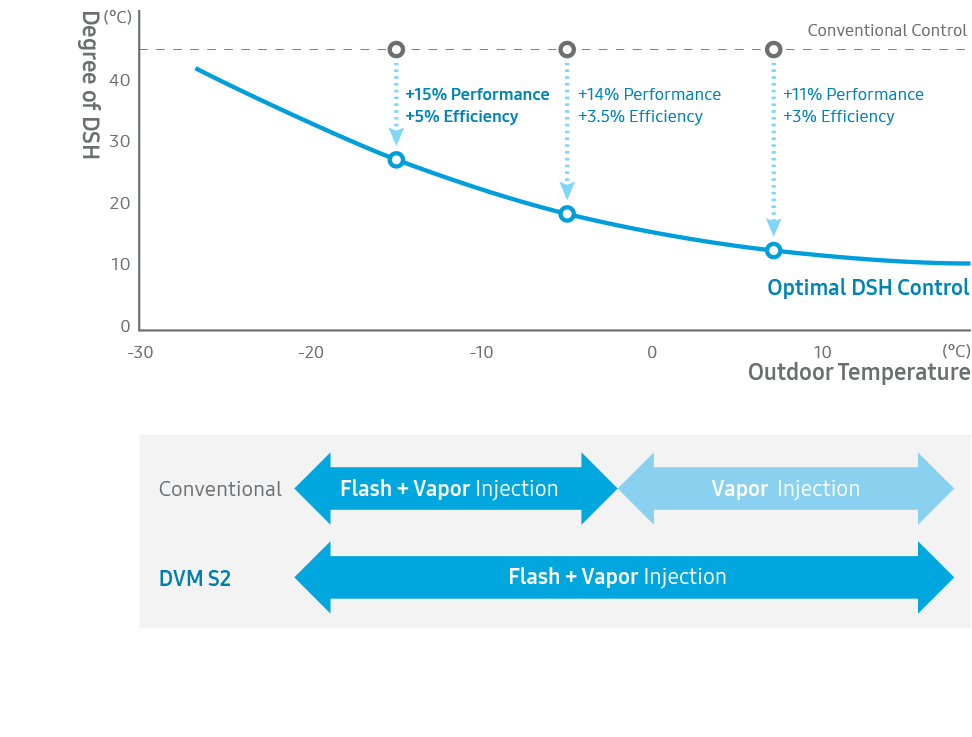
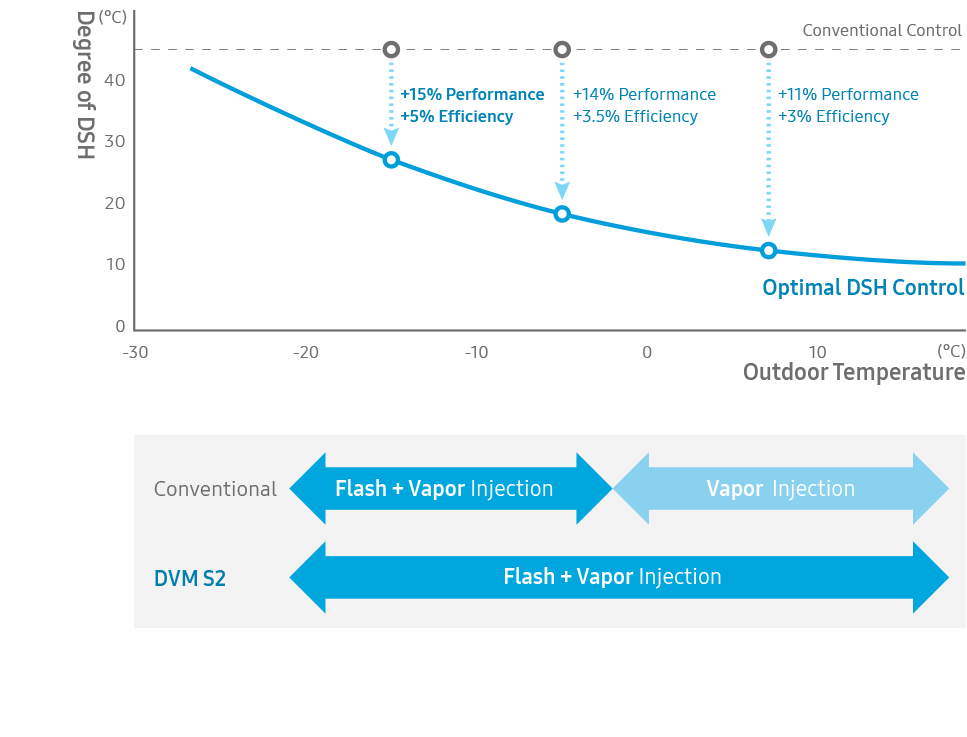
m catalogue 1차

diff --git a/mcatalog/samsung/css/style-tb.less b/mcatalog/samsung/css/style-tb.less
@@ -91,7 +91,7 @@ html { .one; }
         article {
           .content { .fs(0);
             .cont-p { .fs(48); .lh(58); .w(900); .ib; .vat; }
-            img.web { .wh(972,737); .ib; .vat; .mt(60); }
+            img.web { .wh(967,737); .ib; .vat; .mt(60); }
           }
         }
       }

diff --git a/mcatalog/vomm/css/style-tb.less b/mcatalog/vomm/css/style-tb.less
@@ -91,7 +91,7 @@ html { .one; }
         article {
           .content { .fs(0);
             .cont-p { .fs(48); .lh(58); .w(900); .ib; .vat; }
-            img.web { .wh(972,737); .ib; .vat; .mt(60); }
+            img.web { .wh(967,737); .ib; .vat; .mt(60); }
           }
         }
       }

diff --git a/mcatalog/samsung/css/style-tb.css b/mcatalog/samsung/css/style-tb.css
@@ -197,7 +197,7 @@ html {
     vertical-align: top;
   }
   .container .wrap.m004003003 article .content img.web {
-    width: 47.4609375vw;
+    width: 47.21679688vw;
     height: 35.98632813vw;
     display: inline-block;
     vertical-align: top;

diff --git a/mcatalog/vomm/css/style-tb.css b/mcatalog/vomm/css/style-tb.css
@@ -197,7 +197,7 @@ html {
     vertical-align: top;
   }
   .container .wrap.m004003003 article .content img.web {
-    width: 47.4609375vw;
+    width: 47.21679688vw;
     height: 35.98632813vw;
     display: inline-block;
     vertical-align: top;

diff --git a/mcatalog/samsung/004002001.html b/mcatalog/samsung/004002001.html
@@ -14,7 +14,7 @@
   <div class="container">
     <div class="wrap m004002001">
       <header>
-        <p class="tit">Comfort</p>
+        <p class="tit">Reliablilty</p>
       </header>
       <article>
         <div class="visual">

diff --git a/mcatalog/vomm/004002001.html b/mcatalog/vomm/004002001.html
@@ -14,7 +14,7 @@
   <div class="container">
     <div class="wrap m004002001">
       <header>
-        <p class="tit">Comfort</p>
+        <p class="tit">Reliablilty</p>
       </header>
       <article>
         <div class="visual">

diff --git a/mcatalog-test/samsung/css/style-wide.css b/mcatalog-test/samsung/css/style-wide.css
@@ -140,4 +140,4 @@ html {
     width: 67.3828125vw;
   }
 }
-/*# sourceMappingURL=style-tb.css.map */
+/*# sourceMappingURL=style-wide.css.map */

diff --git a/mcatalog-test/vomm/css/style-wide.css b/mcatalog-test/vomm/css/style-wide.css
@@ -140,4 +140,4 @@ html {
     width: 67.3828125vw;
   }
 }
-/*# sourceMappingURL=style-tb.css.map */
+/*# sourceMappingURL=style-wide.css.map */
